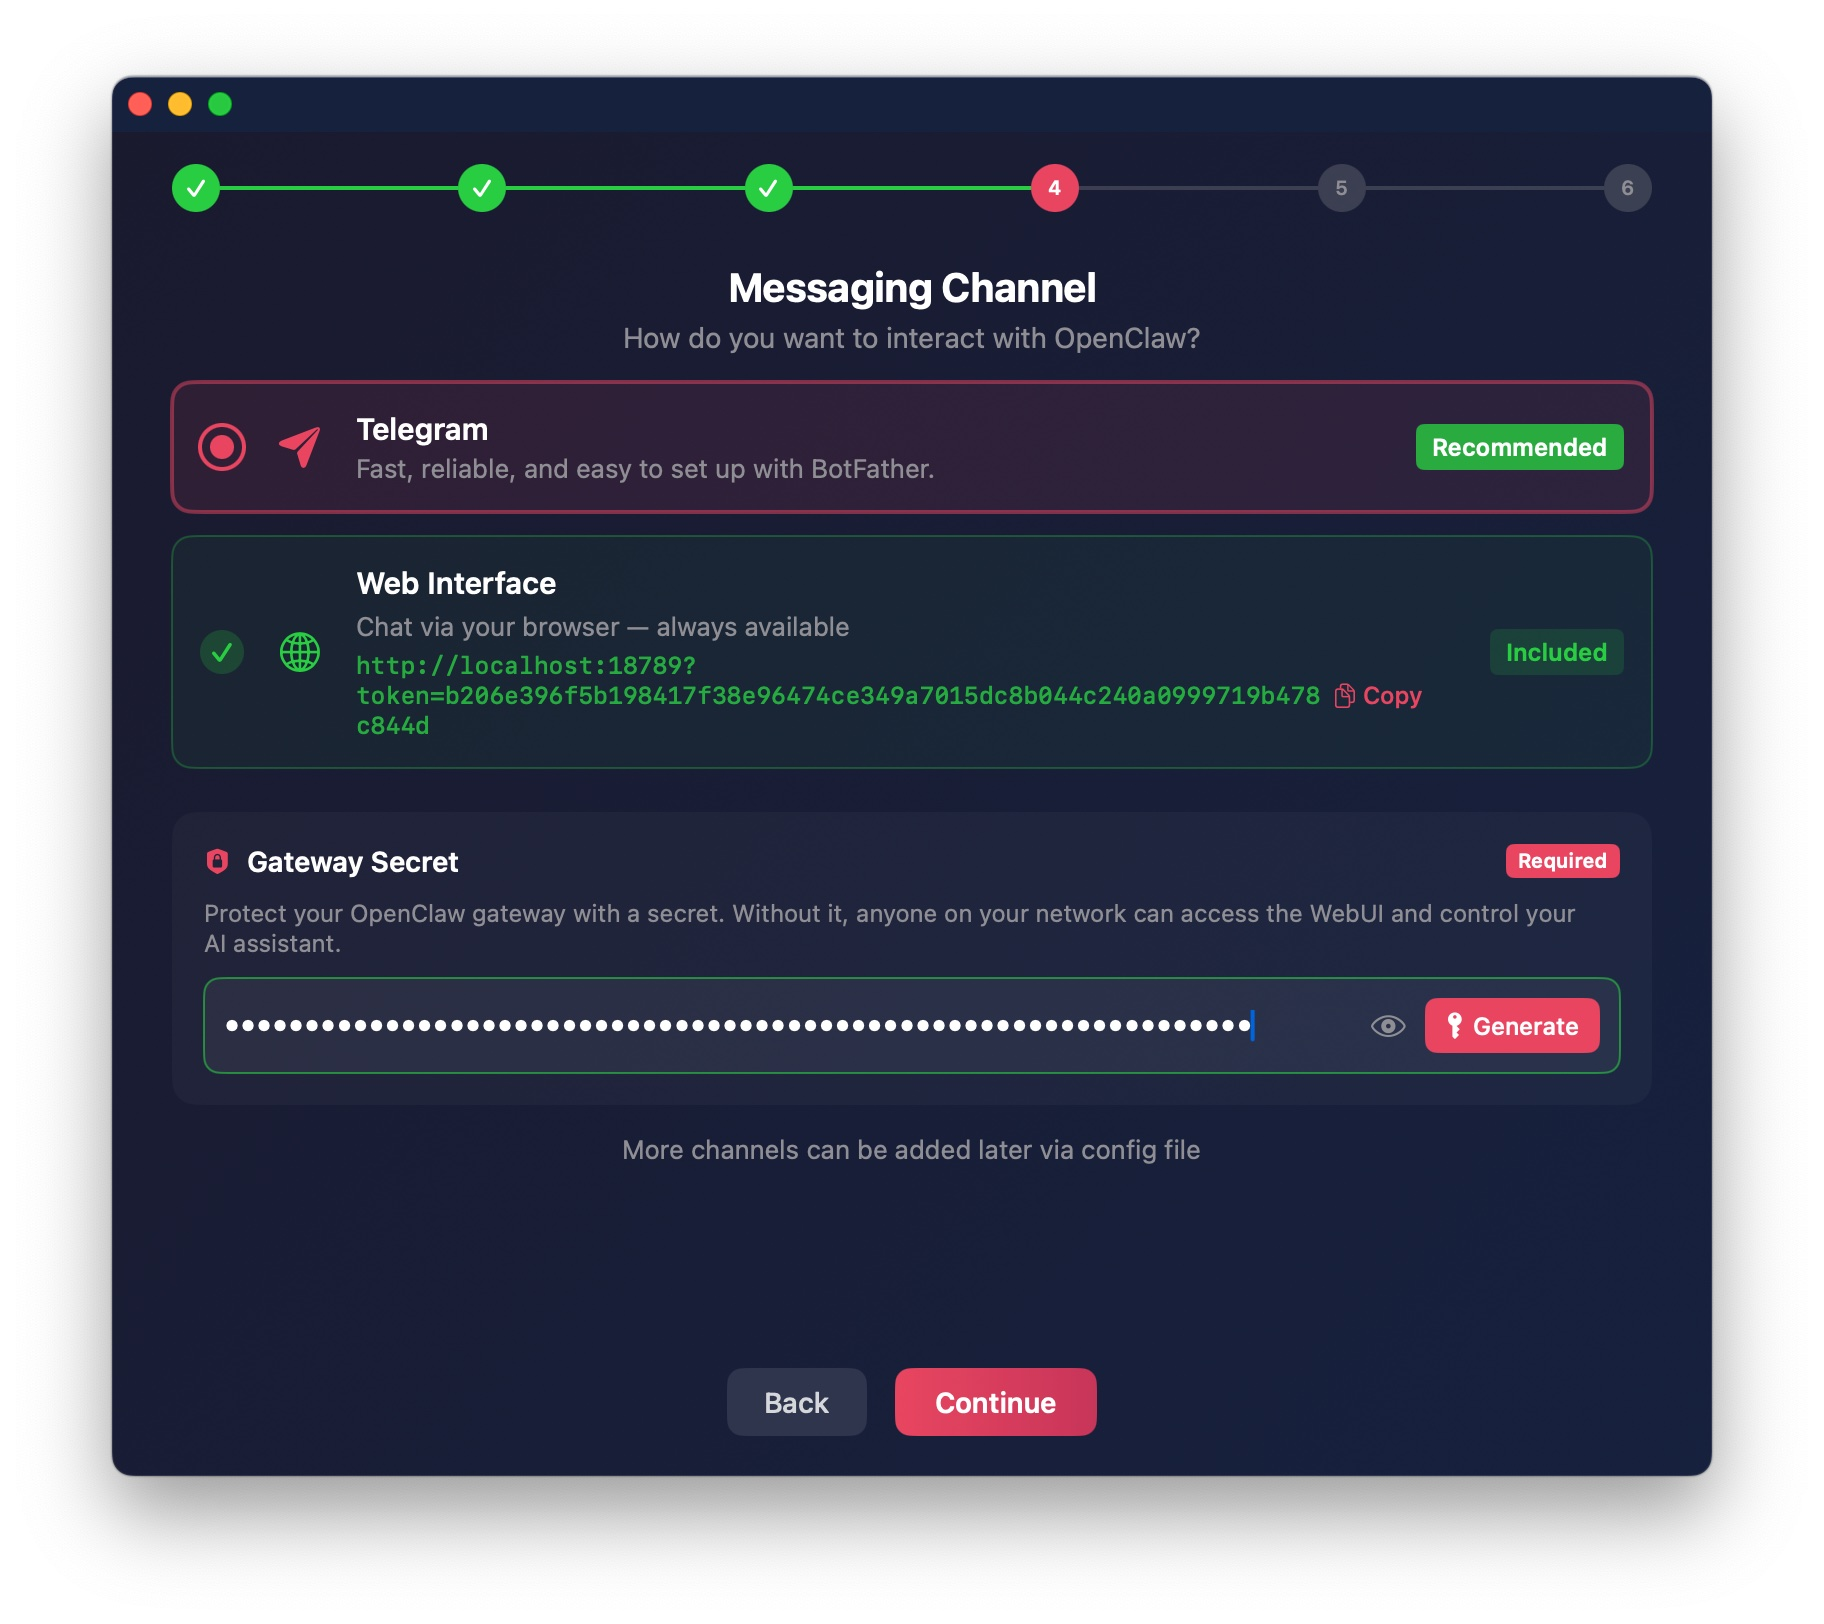
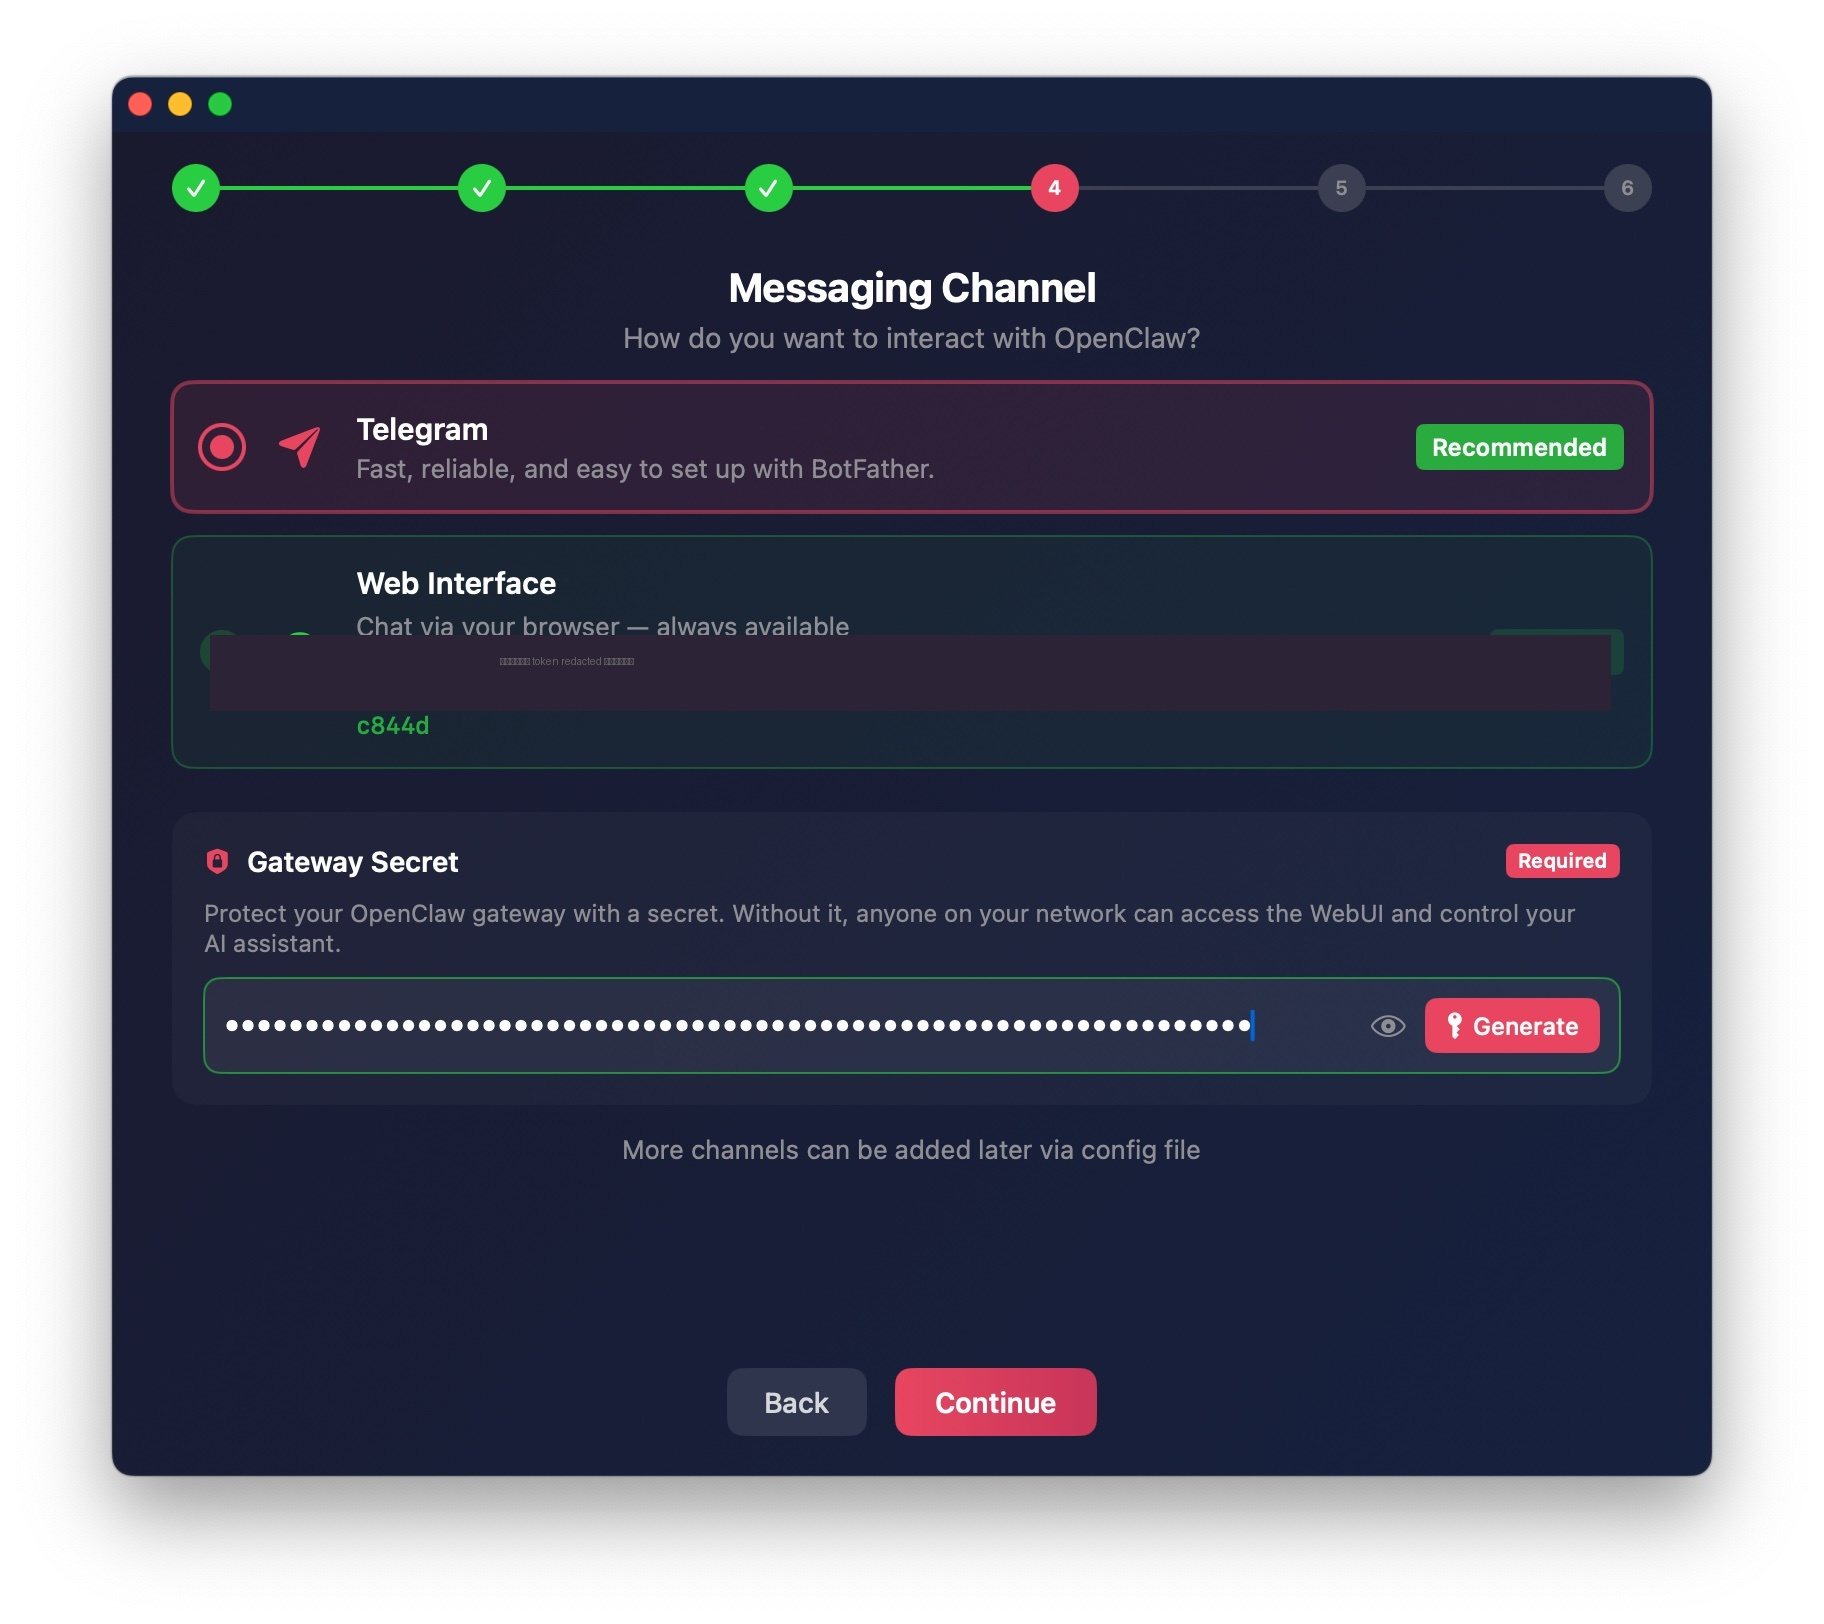
Redact gateway tokens in Channels + Installation-complete screenshots

Changed region(s): [[0.0938, 0.3695, 0.7812, 0.431], [0.8125, 0.3695, 0.9062, 0.431]]

diff --git a/installation-guide.html b/installation-guide.html
@@ -406,7 +406,7 @@
                 <li><strong>Telegram</strong> — Most popular. Free, fast, works on all devices.</li>
             </ul>
             <p>KatClaw generates a secure gateway token that connects your messaging platform to OpenClaw running on your Mac.</p>
-            <img class="screenshot" src="images/install-guide/Channels.jpg" width="912" height="812" alt="Channels">
+            <img class="screenshot" src="images/install-guide/Channels.jpg?v=341" width="912" height="812" alt="Channels">
         </div>
         
         <!-- Step 8 -->
@@ -442,7 +442,7 @@
             <p>You're all set. The OpenClaw gateway is running and your Telegram bot is live.</p>
             <p>Open Telegram, find your bot, and send your first message. Try saying <strong>"hi"</strong> — your AI agent will respond.</p>
             <p>KatClaw now lives in your menu bar. Click the icon anytime to check status, change settings, or manage your agent.</p>
-            <img class="screenshot" src="images/install-guide/Installation-complete.jpg" width="912" height="812" alt="Setup Complete">
+            <img class="screenshot" src="images/install-guide/Installation-complete.jpg?v=341" width="912" height="812" alt="Setup Complete">
         </div>
         
         <div class="cta" style="margin-top: 40px;">
